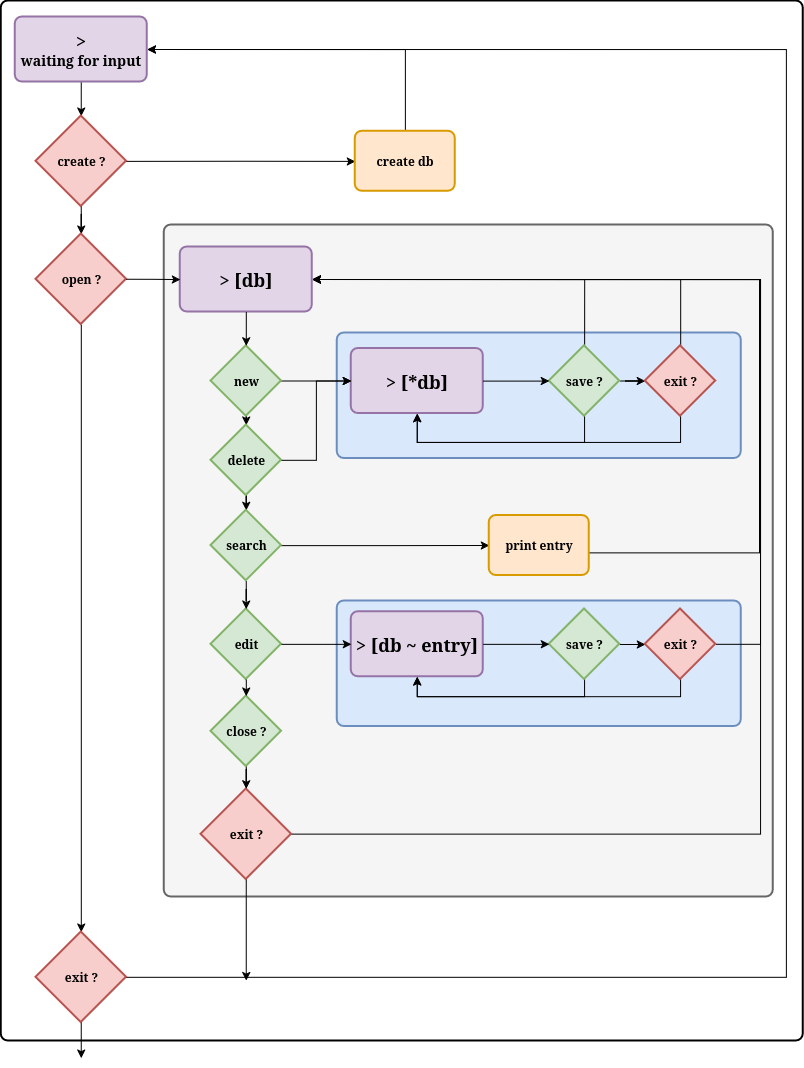
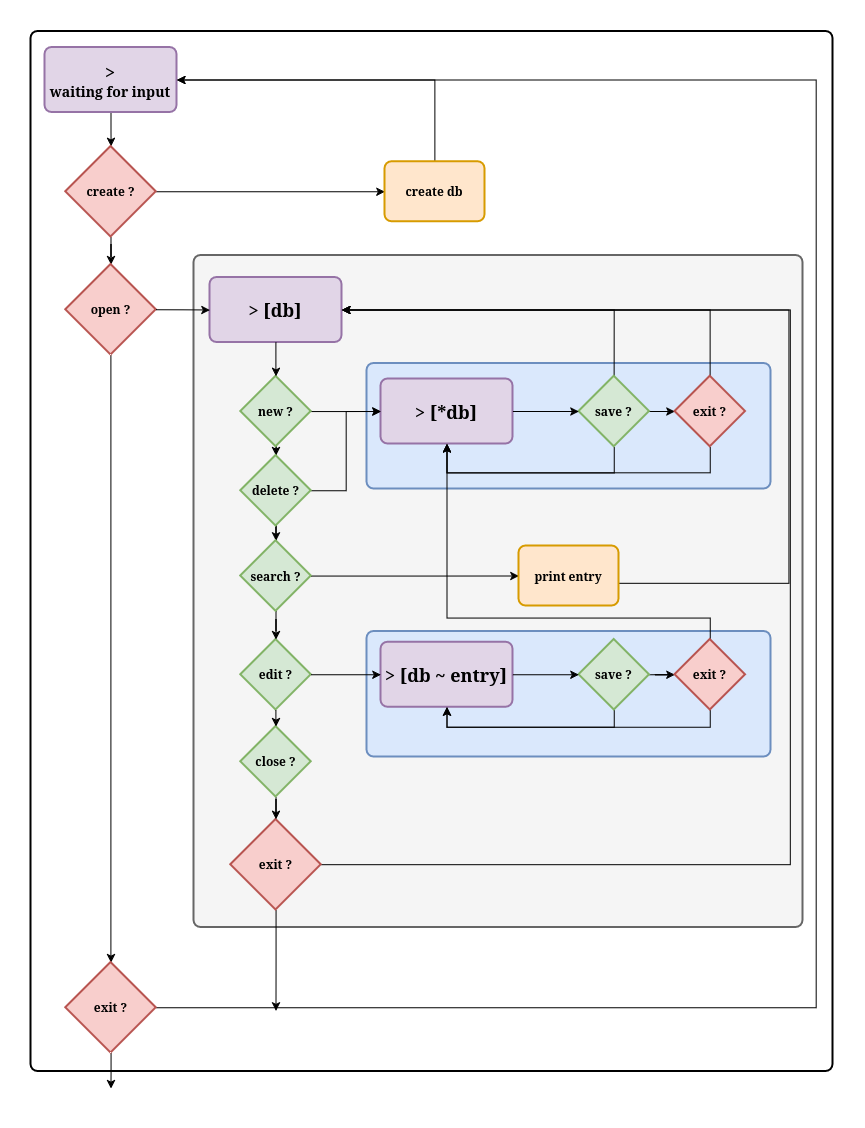
feat: add colors

Changed region(s): [[0.0, 0.0, 1.0, 0.9888], [0.4353, 0.0618, 0.5908, 0.2163], [0.0, 0.9579, 0.0311, 0.9888]]

diff --git a/src/main.c b/src/main.c
@@ -35,7 +35,16 @@ struct command commands[] = {
 size_t num_commands = sizeof(commands) / sizeof(commands[0]);
 
 int main(int argc, char *argv[], char *envp[]) {
-  puts("PASSWORD MANAGER 1.0");
+  puts(BOLD MAGENTA
+    "$$$$$$$\\  $$\\      $$\\ $$\\   $$\\ $$\\      $$\\  $$$$$$\\  $$\\   $$\\ \n"
+    "$$  __$$\\ $$ | $\\  $$ |$$$\\  $$ |$$$\\    $$$ |$$  __$$\\ $$$\\  $$ |\n"
+    "$$ |  $$ |$$ |$$$\\ $$ |$$$$\\ $$ |$$$$\\  $$$$ |$$ /  $$ |$$$$\\ $$ |\n"
+    "$$$$$$$  |$$ $$ $$\\$$ |$$ $$\\$$ |$$\\$$\\$$ $$ |$$$$$$$$ |$$ $$\\$$ |\n"
+    "$$  ____/ $$$$  _$$$$ |$$ \\$$$$ |$$ \\$$$  $$ |$$  __$$ |$$ \\$$$$ |\n"
+    "$$ |      $$$  / \\$$$ |$$ |\\$$$ |$$ |\\$  /$$ |$$ |  $$ |$$ |\\$$$ |\n"
+    "$$ |      $$  /   \\$$ |$$ | \\$$ |$$ | \\_/ $$ |$$ |  $$ |$$ | \\$$ |\n"
+    "\\__|      \\__/     \\__|\\__|  \\__|\\__|     \\__|\\__|  \\__|\\__|  \\__|\n\n"
+    BOLD BLUE"                           [ 0.1.0 ]"RESET);
 
   (void)argc;
   (void)argv;
@@ -48,11 +57,11 @@ int main(int argc, char *argv[], char *envp[]) {
 
   while (1) {
     if (!db.path)
-      printf("> ");
+      printf(BLUE"> " RESET);
     else if (db.edited)
-      printf("[*%s]> ", db.path);
+      printf(BOLD BLUE "[*%s]> " RESET, db.path);
     else
-      printf("[%s]> ", db.path);
+      printf(BLUE "[%s]> " RESET, db.path);
 
     getline(&line, &len);
     for (size_t i = 0; i < num_commands; i++) {
@@ -67,7 +76,7 @@ int main(int argc, char *argv[], char *envp[]) {
       commands[i].func(&db, arg);
       goto end;
     }
-    puts("unknown command");
+    puts(RED"unknown command"RESET);
 
   end:
     free(line);

diff --git a/src/cmd/edit.c b/src/cmd/edit.c
@@ -33,23 +33,27 @@ void edit(struct db *db, char *arg) {
       puts("password <password>: change password");
       puts("save: save the updated entry into memory");
       puts("exit: exit without saving");
+
     } else if (strncmp(line, "title ", 6) == 0) {
       memset(&title[0], 0, sizeof(title));
       memcpy(&title[0], line + 6, len - 6);
       title_len = len - 6;
       puts("success");
+
     } else if (strncmp(line, "username ", 9) == 0) {
       len -= 9;
       memcpy(new_fields.username, line + 9, len);
       new_fields.ulen = len;
       getrandom(new_fields.username + len, 64 - len);
       puts("success");
+
     } else if (strncmp(line, "password ", 9) == 0) {
       len -= 9;
       memcpy(new_fields.password, line + 9, len);
       new_fields.plen = len;
       getrandom(new_fields.password + len, 64 - len);
       puts("success");
+
     } else if (strcmp(line, "save") == 0) {
       memcpy(entry->title, &title[0], title_len);
       entry->tlen = title_len;
@@ -57,9 +61,11 @@ void edit(struct db *db, char *arg) {
       free(line);
       db->edited |= 1;
       break;
+
     } else if (strcmp(line, "exit") == 0) {
       free(line);
       return;
+
     } else {
       puts("unknown command");
     }

diff --git a/src/cmd/create.c b/src/cmd/create.c
@@ -2,7 +2,7 @@
 
 void createdb(struct db *db, char *path) {
   if (db->entries) {
-    puts("db already opened, close it before opening another");
+    puts(RED"db already opened, close it before opening another"RESET);
     return;
   }
 
@@ -11,11 +11,12 @@ void createdb(struct db *db, char *path) {
 
   int fd = open(path, O_WRONLY | O_CREAT | O_EXCL, 0644);
   if (fd < 0) {
-    puts("failed to create the new db");
+    puts(RED"failed to create the new db"RESET);
     return;
   }
 
   char header[17] = "B0T\0\0\0\0\0\0\0\0\0\0\0\0\0";
+  // char header[16] = "B0T\0\0\0\0\0\0\0\0\0\0\0\0\0";
   if (write(fd, &header[0], 16) != 16) {
     puts("failed to write header");
     return;

diff --git a/src/cmd/close.c b/src/cmd/close.c
@@ -3,7 +3,7 @@
 void closedb(struct db *db, char *_) {
   (void)_;
   if (!db->entries) {
-    puts("db not initialized");
+    puts(RED"db not initialized"RESET);
     return;
   }
 
